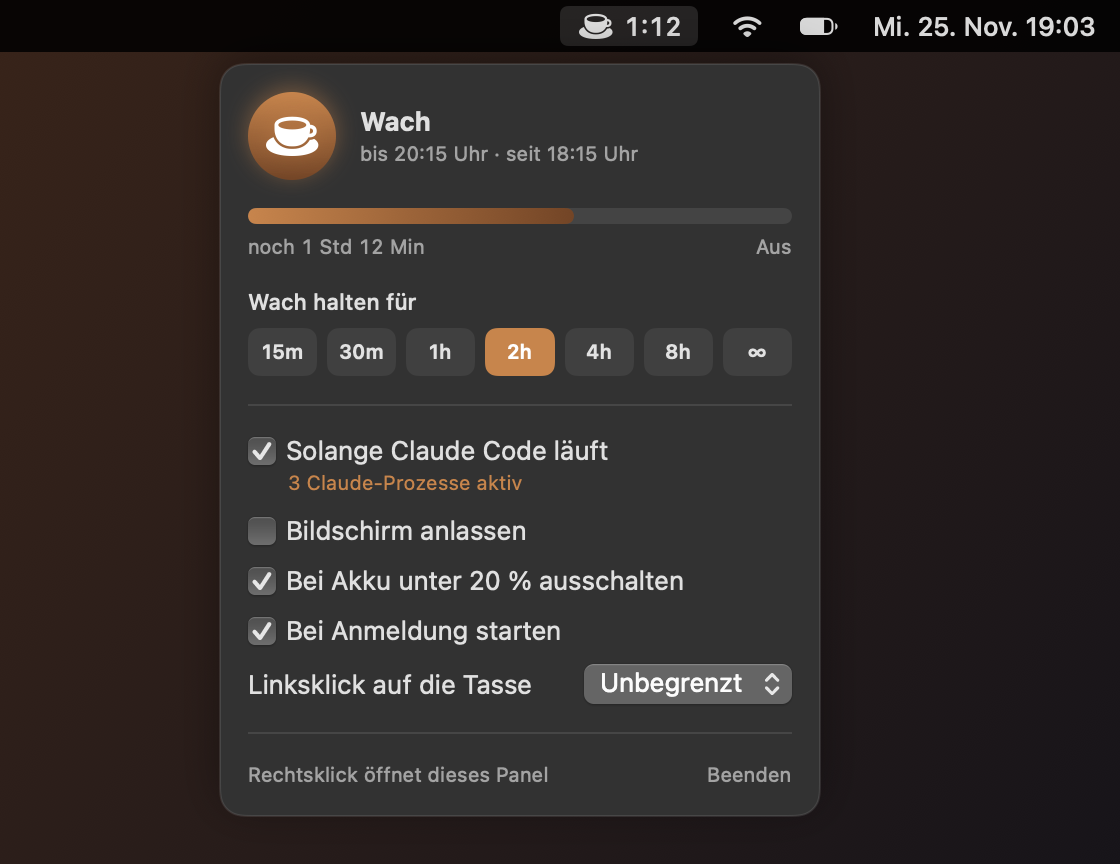
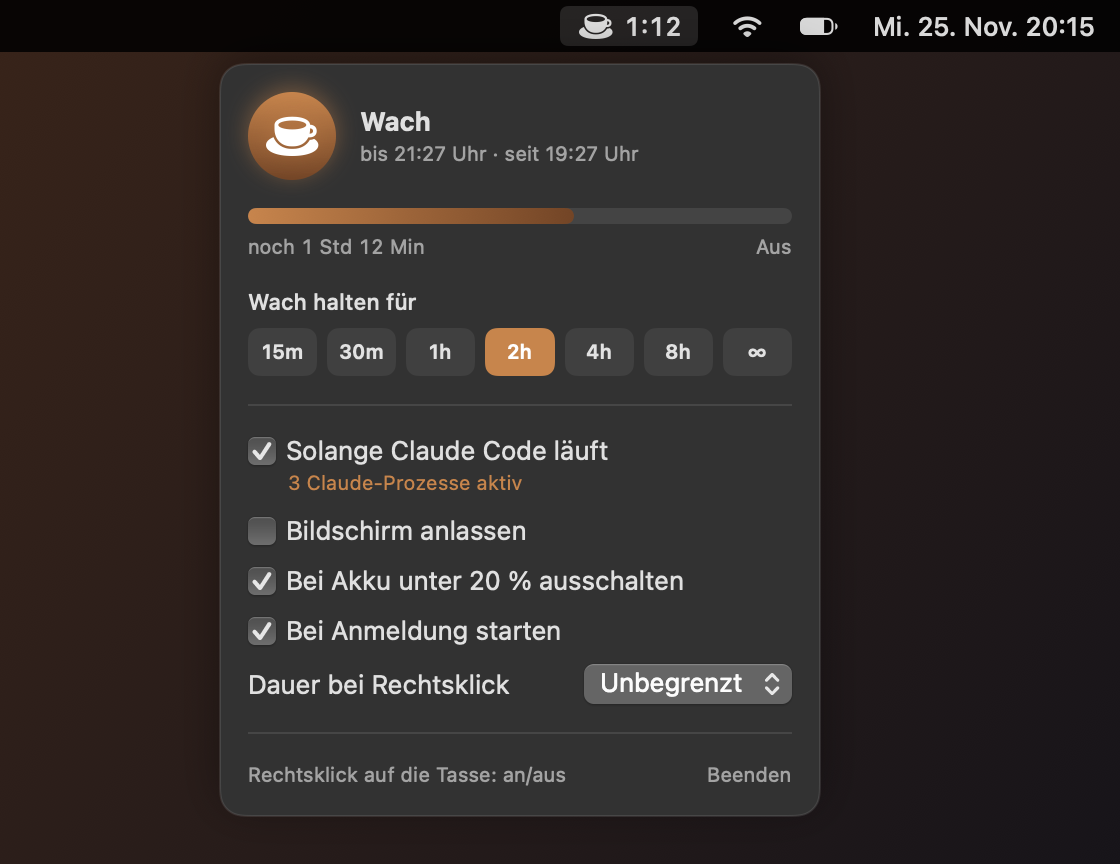
Linksklick öffnet das Panel, Rechtsklick schaltet an/aus

diff --git a/src/App.swift b/src/App.swift
@@ -13,7 +13,7 @@ enum Main {
     }
 }
 
-/// Linksklick auf die Tasse: an/aus. Rechtsklick (oder ⌥/⌃-Klick): Panel mit allen Optionen.
+/// Linksklick auf die Tasse: Panel. Rechtsklick (oder ⌥/⌃-Klick): direkt an/aus.
 @MainActor
 final class AppDelegate: NSObject, NSApplicationDelegate {
     private let statusItem = NSStatusBar.system.statusItem(withLength: NSStatusItem.variableLength)
@@ -45,12 +45,12 @@ final class AppDelegate: NSObject, NSApplicationDelegate {
 
     @objc private func statusClicked() {
         let event = NSApp.currentEvent
-        let wantsPanel = event?.type == .rightMouseUp
+        let quickToggle = event?.type == .rightMouseUp
             || event?.modifierFlags.contains(.option) == true
             || event?.modifierFlags.contains(.control) == true
         if popover.isShown {
             popover.performClose(nil)
-        } else if wantsPanel, let button = statusItem.button {
+        } else if !quickToggle, let button = statusItem.button {
             model.refreshLogin()
             popover.show(relativeTo: button.bounds, of: button, preferredEdge: .minY)
             popover.contentViewController?.view.window?.makeKey()

diff --git a/src/Panel.swift b/src/Panel.swift
@@ -118,7 +118,7 @@ struct CoffeePanel: View {
             Toggle("Bei Anmeldung starten", isOn: Binding(get: { model.launchAtLogin },
                                                           set: { model.setLaunchAtLogin($0) }))
             HStack {
-                Text("Linksklick auf die Tasse")
+                Text("Dauer bei Rechtsklick").lineLimit(1)
                 Spacer()
                 Picker("", selection: $model.defaultMinutes) {
                     ForEach(CoffeeModel.durations, id: \.minutes) { d in Text(d.long).tag(d.minutes) }
@@ -132,7 +132,7 @@ struct CoffeePanel: View {
 
     private var footer: some View {
         HStack {
-            Text("Rechtsklick öffnet dieses Panel")
+            Text("Rechtsklick auf die Tasse: an/aus")
                 .foregroundStyle(.secondary)
             Spacer()
             Button("Beenden") { NSApp.terminate(nil) }

diff --git a/README.md b/README.md
@@ -6,8 +6,8 @@ Eine Kaffeetasse in der Menüleiste, die den Mac wach hält – wie `caffeinate`
 
 ![CoffeeBar in der macOS-Menüleiste](docs/screenshot.png)
 
-- **Linksklick** auf die Tasse: an/aus (gefüllte Tasse = wach)
-- **Rechtsklick** (oder ⌥-/⌃-Klick): Panel mit Restzeit-Balken, Schnellwahl (15m … ∞) und allen Optionen
+- **Linksklick** auf die Tasse: Panel mit Restzeit-Balken, Schnellwahl (15m … ∞) und allen Optionen
+- **Rechtsklick** (oder ⌥-/⌃-Klick): direkt an/aus (gefüllte Tasse = wach)
 
 ## Optionen
 
@@ -17,7 +17,7 @@ Eine Kaffeetasse in der Menüleiste, die den Mac wach hält – wie `caffeinate`
 | **Solange Claude Code läuft** | Standardmäßig an. Der Mac bleibt automatisch wach, solange irgendwo ein `claude`-Prozess läuft, und darf wieder schlafen, sobald alle beendet sind. Ersetzt das manuelle `caffeinate`. |
 | **Bildschirm anlassen** | Zusätzlich den Bildschirm wach halten (wie `caffeinate -d`). Standard: aus, der Bildschirm darf ausgehen, der Mac arbeitet weiter. |
 | **Bei Akku unter 20 % ausschalten** | Standard: an. |
-| **Linksklick auf die Tasse** | Standarddauer für den Linksklick. |
+| **Dauer bei Rechtsklick** | Dauer, wenn du per Rechtsklick direkt einschaltest. |
 | **Bei Anmeldung starten** | Über `SMAppService`. |
 
 Läuft ein Timer, zeigt das Panel einen Balken mit der Restzeit.
